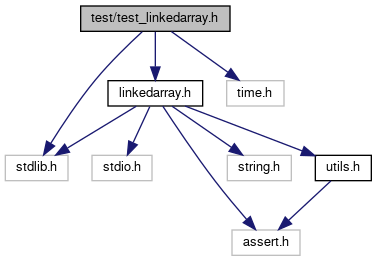
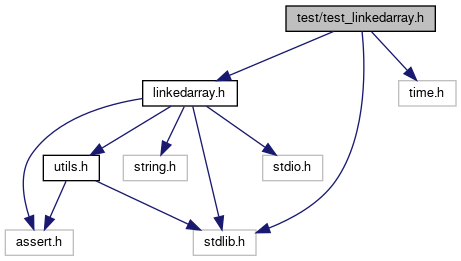
deploy: 62ef7dddea1c3ed3d6eda440160fe4bedcd5a92e

diff --git a/utils_8h_source.html b/utils_8h_source.html
@@ -74,50 +74,51 @@ $(function() {
 <div class="line"><a name="l00012"></a><span class="lineno">   12</span>&#160;<span class="preprocessor">#define UTILS_H</span></div>
 <div class="line"><a name="l00013"></a><span class="lineno">   13</span>&#160; </div>
 <div class="line"><a name="l00014"></a><span class="lineno">   14</span>&#160;<span class="preprocessor">#include &lt;assert.h&gt;</span></div>
-<div class="line"><a name="l00015"></a><span class="lineno">   15</span>&#160; </div>
-<div class="line"><a name="l00016"></a><span class="lineno"><a class="line" href="structMinMax.html">   16</a></span>&#160;<span class="keyword">typedef</span> <span class="keyword">struct </span>{</div>
-<div class="line"><a name="l00017"></a><span class="lineno">   17</span>&#160;    <span class="keywordtype">int</span> min;</div>
-<div class="line"><a name="l00018"></a><span class="lineno">   18</span>&#160;    <span class="keywordtype">int</span> max;</div>
-<div class="line"><a name="l00019"></a><span class="lineno">   19</span>&#160;} <a class="code" href="structMinMax.html">MinMax</a>;</div>
-<div class="line"><a name="l00020"></a><span class="lineno">   20</span>&#160; </div>
-<div class="line"><a name="l00022"></a><span class="lineno">   22</span>&#160;<span class="keywordtype">void</span> <a class="code" href="utils_8h.html#a7f9501e3da8bed7be1eed5abe1b2c035">quicksort</a>(<span class="keywordtype">int</span> arr[], <span class="keywordtype">int</span> left, <span class="keywordtype">int</span> right);</div>
-<div class="line"><a name="l00023"></a><span class="lineno">   23</span>&#160; </div>
-<div class="line"><a name="l00025"></a><span class="lineno">   25</span>&#160;<span class="keywordtype">int</span> <a class="code" href="utils_8h.html#a63802919fc588a396c2037346d2ea072">partition</a>(<span class="keywordtype">int</span> number[], <span class="keywordtype">int</span> left, <span class="keywordtype">int</span> right);</div>
-<div class="line"><a name="l00026"></a><span class="lineno">   26</span>&#160; </div>
-<div class="line"><a name="l00028"></a><span class="lineno">   28</span>&#160;<span class="keywordtype">void</span> <a class="code" href="utils_8h.html#acd3415eef442ced2b5e064f95f04b624">swap</a>(<span class="keywordtype">int</span>* x, <span class="keywordtype">int</span>* y);</div>
-<div class="line"><a name="l00029"></a><span class="lineno">   29</span>&#160; </div>
-<div class="line"><a name="l00039"></a><span class="lineno">   39</span>&#160;<span class="keywordtype">int</span> <a class="code" href="utils_8h.html#aea0b7eaa2eccbab7c7a02af30f789fff">insert_arr</a>(<span class="keywordtype">int</span> arr[], <span class="keywordtype">int</span> i_, <span class="keywordtype">int</span> x, <span class="keywordtype">int</span> length);</div>
-<div class="line"><a name="l00040"></a><span class="lineno">   40</span>&#160; </div>
-<div class="line"><a name="l00042"></a><span class="lineno">   42</span>&#160;<span class="keywordtype">void</span> <a class="code" href="utils_8h.html#aaa4f0ee49fe00816904a50365b89a7b5">append_arr</a>(<span class="keywordtype">int</span> arr[], <span class="keywordtype">int</span> x, <span class="keywordtype">int</span> length);</div>
-<div class="line"><a name="l00044"></a><span class="lineno">   44</span>&#160;<span class="keywordtype">void</span> <a class="code" href="utils_8h.html#a6062d344abd994c1d5f9735511f78112">remove_arr</a>(<span class="keywordtype">int</span> arr[], <span class="keywordtype">int</span> i, <span class="keywordtype">int</span> length);</div>
-<div class="line"><a name="l00046"></a><span class="lineno">   46</span>&#160;<span class="keywordtype">int</span> <a class="code" href="utils_8h.html#a40ee04a45135984b0f1981d51b1688b6">reverse_arr</a>(<span class="keywordtype">int</span> arr[], <span class="keywordtype">int</span> str, <span class="keywordtype">int</span> end);</div>
-<div class="line"><a name="l00050"></a><span class="lineno">   50</span>&#160;<span class="keywordtype">int</span> <a class="code" href="utils_8h.html#aa26582e44b939cc0f7f9b1e3bec5de74">compare_array</a>(<span class="keywordtype">int</span> A[], <span class="keywordtype">int</span> B[], <span class="keywordtype">int</span> length);</div>
-<div class="line"><a name="l00051"></a><span class="lineno">   51</span>&#160; </div>
+<div class="line"><a name="l00015"></a><span class="lineno">   15</span>&#160;<span class="preprocessor">#include &lt;stdlib.h&gt;</span></div>
+<div class="line"><a name="l00016"></a><span class="lineno">   16</span>&#160; </div>
+<div class="line"><a name="l00017"></a><span class="lineno"><a class="line" href="structMinMax.html">   17</a></span>&#160;<span class="keyword">typedef</span> <span class="keyword">struct </span>{</div>
+<div class="line"><a name="l00018"></a><span class="lineno">   18</span>&#160;    <span class="keywordtype">int</span> min;</div>
+<div class="line"><a name="l00019"></a><span class="lineno">   19</span>&#160;    <span class="keywordtype">int</span> max;</div>
+<div class="line"><a name="l00020"></a><span class="lineno">   20</span>&#160;} <a class="code" href="structMinMax.html">MinMax</a>;</div>
+<div class="line"><a name="l00021"></a><span class="lineno">   21</span>&#160; </div>
+<div class="line"><a name="l00023"></a><span class="lineno">   23</span>&#160;<span class="keywordtype">void</span> <a class="code" href="utils_8h.html#a7f9501e3da8bed7be1eed5abe1b2c035">quicksort</a>(<span class="keywordtype">int</span> arr[], <span class="keywordtype">int</span> left, <span class="keywordtype">int</span> right);</div>
+<div class="line"><a name="l00024"></a><span class="lineno">   24</span>&#160; </div>
+<div class="line"><a name="l00026"></a><span class="lineno">   26</span>&#160;<span class="keywordtype">int</span> <a class="code" href="utils_8h.html#a63802919fc588a396c2037346d2ea072">partition</a>(<span class="keywordtype">int</span> number[], <span class="keywordtype">int</span> left, <span class="keywordtype">int</span> right);</div>
+<div class="line"><a name="l00027"></a><span class="lineno">   27</span>&#160; </div>
+<div class="line"><a name="l00029"></a><span class="lineno">   29</span>&#160;<span class="keywordtype">void</span> <a class="code" href="utils_8h.html#acd3415eef442ced2b5e064f95f04b624">swap</a>(<span class="keywordtype">int</span>* x, <span class="keywordtype">int</span>* y);</div>
+<div class="line"><a name="l00030"></a><span class="lineno">   30</span>&#160; </div>
+<div class="line"><a name="l00040"></a><span class="lineno">   40</span>&#160;<span class="keywordtype">int</span> <a class="code" href="utils_8h.html#aea0b7eaa2eccbab7c7a02af30f789fff">insert_arr</a>(<span class="keywordtype">int</span> arr[], <span class="keywordtype">int</span> i_, <span class="keywordtype">int</span> x, <span class="keywordtype">int</span> length);</div>
+<div class="line"><a name="l00041"></a><span class="lineno">   41</span>&#160; </div>
+<div class="line"><a name="l00043"></a><span class="lineno">   43</span>&#160;<span class="keywordtype">void</span> <a class="code" href="utils_8h.html#aaa4f0ee49fe00816904a50365b89a7b5">append_arr</a>(<span class="keywordtype">int</span> arr[], <span class="keywordtype">int</span> x, <span class="keywordtype">int</span> length);</div>
+<div class="line"><a name="l00045"></a><span class="lineno">   45</span>&#160;<span class="keywordtype">void</span> <a class="code" href="utils_8h.html#a6062d344abd994c1d5f9735511f78112">remove_arr</a>(<span class="keywordtype">int</span> arr[], <span class="keywordtype">int</span> i, <span class="keywordtype">int</span> length);</div>
+<div class="line"><a name="l00047"></a><span class="lineno">   47</span>&#160;<span class="keywordtype">int</span> <a class="code" href="utils_8h.html#a40ee04a45135984b0f1981d51b1688b6">reverse_arr</a>(<span class="keywordtype">int</span> arr[], <span class="keywordtype">int</span> str, <span class="keywordtype">int</span> end);</div>
+<div class="line"><a name="l00051"></a><span class="lineno">   51</span>&#160;<span class="keywordtype">int</span> <a class="code" href="utils_8h.html#aa26582e44b939cc0f7f9b1e3bec5de74">compare_array</a>(<span class="keywordtype">int</span> A[], <span class="keywordtype">int</span> B[], <span class="keywordtype">int</span> length);</div>
 <div class="line"><a name="l00052"></a><span class="lineno">   52</span>&#160; </div>
-<div class="line"><a name="l00062"></a><span class="lineno">   62</span>&#160;<span class="keywordtype">int</span> <a class="code" href="utils_8h.html#af2eeb464f878d97ae244a20a2ecdd415">BinarySearch_MinBigger</a>(<span class="keywordtype">int</span>* arr, <span class="keywordtype">int</span> length, <span class="keywordtype">int</span> key);</div>
-<div class="line"><a name="l00063"></a><span class="lineno">   63</span>&#160; </div>
-<div class="line"><a name="l00069"></a><span class="lineno">   69</span>&#160;<span class="keywordtype">int</span> <a class="code" href="utils_8h.html#a53905e2decba41a7198d38133359544c">BinarySearch_MaxSmaller</a>(<span class="keywordtype">int</span>* arrSorted, <span class="keywordtype">int</span> length, <span class="keywordtype">int</span> key);</div>
-<div class="line"><a name="l00070"></a><span class="lineno">   70</span>&#160; </div>
-<div class="line"><a name="l00079"></a><span class="lineno">   79</span>&#160;<span class="keywordtype">int</span> <a class="code" href="utils_8h.html#ab584f14895022a0a7734b6ad61456bcf">NumItemSmaller_Sorted</a>(<span class="keywordtype">int</span>* arrSorted, <span class="keywordtype">int</span> length, <span class="keywordtype">int</span> key);</div>
-<div class="line"><a name="l00080"></a><span class="lineno">   80</span>&#160; </div>
-<div class="line"><a name="l00091"></a><span class="lineno">   91</span>&#160;<span class="keywordtype">int</span> <a class="code" href="utils_8h.html#acfa4abe34baf1ebf7a10cb4614ea3b19">NumItemSmaller_Screen</a>(<span class="keywordtype">int</span>* arr, <span class="keywordtype">int</span> str, <span class="keywordtype">int</span> end, <span class="keywordtype">int</span> key);</div>
-<div class="line"><a name="l00092"></a><span class="lineno">   92</span>&#160; </div>
-<div class="line"><a name="l00094"></a><span class="lineno">   94</span>&#160;<a class="code" href="structMinMax.html">MinMax</a> <a class="code" href="utils_8h.html#a1c86995f8159017fe081a0c3f6948227">findMinMax</a>(<span class="keywordtype">int</span>* arr, <span class="keywordtype">int</span> str, <span class="keywordtype">int</span> end);</div>
-<div class="line"><a name="l00095"></a><span class="lineno">   95</span>&#160;<span class="keywordtype">int</span> <a class="code" href="utils_8h.html#af3ded9db3e5041e65961739dad69bca7">update_MinMax</a>(<a class="code" href="structMinMax.html">MinMax</a>* dst, <span class="keywordtype">int</span> min, <span class="keywordtype">int</span> max);</div>
-<div class="line"><a name="l00096"></a><span class="lineno">   96</span>&#160; </div>
-<div class="line"><a name="l00097"></a><span class="lineno">   97</span>&#160;<span class="comment">/*TESTING*/</span></div>
-<div class="line"><a name="l00098"></a><span class="lineno"><a class="line" href="structarray.html">   98</a></span>&#160;<span class="keyword">typedef</span> <span class="keyword">struct </span>{</div>
-<div class="line"><a name="l00099"></a><span class="lineno">   99</span>&#160;    <span class="keywordtype">int</span> arr[50000];</div>
-<div class="line"><a name="l00100"></a><span class="lineno">  100</span>&#160;    <span class="keywordtype">int</span> len;</div>
-<div class="line"><a name="l00101"></a><span class="lineno">  101</span>&#160;} <a class="code" href="structarray.html">array</a>;</div>
-<div class="line"><a name="l00102"></a><span class="lineno">  102</span>&#160;<a class="code" href="structarray.html">array</a> init_array();</div>
-<div class="line"><a name="l00103"></a><span class="lineno">  103</span>&#160;<span class="keywordtype">int</span> insert_array(<a class="code" href="structarray.html">array</a>*, <span class="keywordtype">int</span> i, <span class="keywordtype">int</span> x);</div>
-<div class="line"><a name="l00104"></a><span class="lineno">  104</span>&#160;<span class="keywordtype">int</span> delete_array(<a class="code" href="structarray.html">array</a>*, <span class="keywordtype">int</span> i);</div>
-<div class="line"><a name="l00105"></a><span class="lineno">  105</span>&#160;<span class="keywordtype">int</span> reverse_array(<a class="code" href="structarray.html">array</a>*, <span class="keywordtype">int</span> l, <span class="keywordtype">int</span> r);</div>
-<div class="line"><a name="l00106"></a><span class="lineno">  106</span>&#160; </div>
-<div class="line"><a name="l00107"></a><span class="lineno">  107</span>&#160;<span class="preprocessor">#endif</span></div>
-<div class="ttc" id="astructMinMax_html"><div class="ttname"><a href="structMinMax.html">MinMax</a></div><div class="ttdef"><b>Definition:</b> utils.h:16</div></div>
-<div class="ttc" id="astructarray_html"><div class="ttname"><a href="structarray.html">array</a></div><div class="ttdef"><b>Definition:</b> utils.h:98</div></div>
+<div class="line"><a name="l00053"></a><span class="lineno">   53</span>&#160; </div>
+<div class="line"><a name="l00063"></a><span class="lineno">   63</span>&#160;<span class="keywordtype">int</span> <a class="code" href="utils_8h.html#af2eeb464f878d97ae244a20a2ecdd415">BinarySearch_MinBigger</a>(<span class="keywordtype">int</span>* arr, <span class="keywordtype">int</span> length, <span class="keywordtype">int</span> key);</div>
+<div class="line"><a name="l00064"></a><span class="lineno">   64</span>&#160; </div>
+<div class="line"><a name="l00070"></a><span class="lineno">   70</span>&#160;<span class="keywordtype">int</span> <a class="code" href="utils_8h.html#a53905e2decba41a7198d38133359544c">BinarySearch_MaxSmaller</a>(<span class="keywordtype">int</span>* arrSorted, <span class="keywordtype">int</span> length, <span class="keywordtype">int</span> key);</div>
+<div class="line"><a name="l00071"></a><span class="lineno">   71</span>&#160; </div>
+<div class="line"><a name="l00080"></a><span class="lineno">   80</span>&#160;<span class="keywordtype">int</span> <a class="code" href="utils_8h.html#ab584f14895022a0a7734b6ad61456bcf">NumItemSmaller_Sorted</a>(<span class="keywordtype">int</span>* arrSorted, <span class="keywordtype">int</span> length, <span class="keywordtype">int</span> key);</div>
+<div class="line"><a name="l00081"></a><span class="lineno">   81</span>&#160; </div>
+<div class="line"><a name="l00092"></a><span class="lineno">   92</span>&#160;<span class="keywordtype">int</span> <a class="code" href="utils_8h.html#acfa4abe34baf1ebf7a10cb4614ea3b19">NumItemSmaller_Screen</a>(<span class="keywordtype">int</span>* arr, <span class="keywordtype">int</span> str, <span class="keywordtype">int</span> end, <span class="keywordtype">int</span> key);</div>
+<div class="line"><a name="l00093"></a><span class="lineno">   93</span>&#160; </div>
+<div class="line"><a name="l00095"></a><span class="lineno">   95</span>&#160;<a class="code" href="structMinMax.html">MinMax</a> <a class="code" href="utils_8h.html#a1c86995f8159017fe081a0c3f6948227">findMinMax</a>(<span class="keywordtype">int</span>* arr, <span class="keywordtype">int</span> str, <span class="keywordtype">int</span> end);</div>
+<div class="line"><a name="l00096"></a><span class="lineno">   96</span>&#160;<span class="keywordtype">int</span> <a class="code" href="utils_8h.html#af3ded9db3e5041e65961739dad69bca7">update_MinMax</a>(<a class="code" href="structMinMax.html">MinMax</a>* dst, <span class="keywordtype">int</span> min, <span class="keywordtype">int</span> max);</div>
+<div class="line"><a name="l00097"></a><span class="lineno">   97</span>&#160; </div>
+<div class="line"><a name="l00098"></a><span class="lineno">   98</span>&#160;<span class="comment">/*TESTING*/</span></div>
+<div class="line"><a name="l00099"></a><span class="lineno"><a class="line" href="structarray.html">   99</a></span>&#160;<span class="keyword">typedef</span> <span class="keyword">struct </span>{</div>
+<div class="line"><a name="l00100"></a><span class="lineno">  100</span>&#160;    <span class="keywordtype">int</span>* arr;</div>
+<div class="line"><a name="l00101"></a><span class="lineno">  101</span>&#160;    <span class="keywordtype">int</span> len;</div>
+<div class="line"><a name="l00102"></a><span class="lineno">  102</span>&#160;} <a class="code" href="structarray.html">array</a>;</div>
+<div class="line"><a name="l00103"></a><span class="lineno">  103</span>&#160;<a class="code" href="structarray.html">array</a> init_array();</div>
+<div class="line"><a name="l00104"></a><span class="lineno">  104</span>&#160;<span class="keywordtype">int</span> insert_array(<a class="code" href="structarray.html">array</a>*, <span class="keywordtype">int</span> i, <span class="keywordtype">int</span> x);</div>
+<div class="line"><a name="l00105"></a><span class="lineno">  105</span>&#160;<span class="keywordtype">int</span> delete_array(<a class="code" href="structarray.html">array</a>*, <span class="keywordtype">int</span> i);</div>
+<div class="line"><a name="l00106"></a><span class="lineno">  106</span>&#160;<span class="keywordtype">int</span> reverse_array(<a class="code" href="structarray.html">array</a>*, <span class="keywordtype">int</span> l, <span class="keywordtype">int</span> r);</div>
+<div class="line"><a name="l00107"></a><span class="lineno">  107</span>&#160; </div>
+<div class="line"><a name="l00108"></a><span class="lineno">  108</span>&#160;<span class="preprocessor">#endif</span></div>
+<div class="ttc" id="astructMinMax_html"><div class="ttname"><a href="structMinMax.html">MinMax</a></div><div class="ttdef"><b>Definition:</b> utils.h:17</div></div>
+<div class="ttc" id="astructarray_html"><div class="ttname"><a href="structarray.html">array</a></div><div class="ttdef"><b>Definition:</b> utils.h:99</div></div>
 <div class="ttc" id="autils_8h_html_a1c86995f8159017fe081a0c3f6948227"><div class="ttname"><a href="utils_8h.html#a1c86995f8159017fe081a0c3f6948227">findMinMax</a></div><div class="ttdeci">MinMax findMinMax(int *arr, int str, int end)</div><div class="ttdef"><b>Definition:</b> utils.c:146</div></div>
 <div class="ttc" id="autils_8h_html_a40ee04a45135984b0f1981d51b1688b6"><div class="ttname"><a href="utils_8h.html#a40ee04a45135984b0f1981d51b1688b6">reverse_arr</a></div><div class="ttdeci">int reverse_arr(int arr[], int str, int end)</div><div class="ttdef"><b>Definition:</b> utils.c:57</div></div>
 <div class="ttc" id="autils_8h_html_a53905e2decba41a7198d38133359544c"><div class="ttname"><a href="utils_8h.html#a53905e2decba41a7198d38133359544c">BinarySearch_MaxSmaller</a></div><div class="ttdeci">int BinarySearch_MaxSmaller(int *arrSorted, int length, int key)</div><div class="ttdoc">Find the maximum location i which fullfills arr[i] &lt; key.</div><div class="ttdef"><b>Definition:</b> utils.c:108</div></div>

diff --git a/linkedarray_8h_source.html b/linkedarray_8h_source.html
@@ -197,9 +197,9 @@ $(function() {
 <div class="ttc" id="alinkedarray_8h_html_ae09ebb3d01abd07009f724db79fc1a26"><div class="ttname"><a href="linkedarray_8h.html#ae09ebb3d01abd07009f724db79fc1a26">find_start_end_LA</a></div><div class="ttdeci">StrEndLoc find_start_end_LA(LnkArr *headlist, int str, int end)</div><div class="ttdef"><b>Definition:</b> linkedarray.c:445</div></div>
 <div class="ttc" id="alinkedarray_8h_html_ae507e388b4fc6fcd090b0bd0836e3c1f"><div class="ttname"><a href="linkedarray_8h.html#ae507e388b4fc6fcd090b0bd0836e3c1f">reverseInNodes</a></div><div class="ttdeci">int reverseInNodes(Loc nodeStr, Loc nodeEnd)</div><div class="ttdef"><b>Definition:</b> linkedarray.c:369</div></div>
 <div class="ttc" id="astructLoc_html"><div class="ttname"><a href="structLoc.html">Loc</a></div><div class="ttdoc">Position in linked array.</div><div class="ttdef"><b>Definition:</b> linkedarray.h:50</div></div>
-<div class="ttc" id="astructMinMax_html"><div class="ttname"><a href="structMinMax.html">MinMax</a></div><div class="ttdef"><b>Definition:</b> utils.h:16</div></div>
+<div class="ttc" id="astructMinMax_html"><div class="ttname"><a href="structMinMax.html">MinMax</a></div><div class="ttdef"><b>Definition:</b> utils.h:17</div></div>
 <div class="ttc" id="astructStrEndLoc_html"><div class="ttname"><a href="structStrEndLoc.html">StrEndLoc</a></div><div class="ttdef"><b>Definition:</b> linkedarray.h:59</div></div>
-<div class="ttc" id="astructarray_html"><div class="ttname"><a href="structarray.html">array</a></div><div class="ttdef"><b>Definition:</b> utils.h:98</div></div>
+<div class="ttc" id="astructarray_html"><div class="ttname"><a href="structarray.html">array</a></div><div class="ttdef"><b>Definition:</b> utils.h:99</div></div>
 <div class="ttc" id="astructnode_html"><div class="ttname"><a href="structnode.html">node</a></div><div class="ttdef"><b>Definition:</b> linkedarray.h:32</div></div>
 <div class="ttc" id="autils_8h_html"><div class="ttname"><a href="utils_8h.html">utils.h</a></div><div class="ttdoc">General Utilities for C language.</div></div>
 </div><!-- fragment --></div><!-- contents -->

diff --git a/main_8c.html b/main_8c.html
@@ -82,13 +82,13 @@ Include dependency graph for main.c:</div>
 <div class="dyncontent">
 <div class="center"><img src="main_8c__incl.png" border="0" usemap="#asrc_2main_8c" alt=""/></div>
 <map name="asrc_2main_8c" id="asrc_2main_8c">
-<area shape="rect" title="DSA2021 HW1 P6: K least member. This package is majorly done by myself. The algorithm part is inspire..." alt="" coords="78,5,161,32"/>
-<area shape="rect" title=" " alt="" coords="5,155,65,181"/>
-<area shape="rect" title=" " alt="" coords="89,155,152,181"/>
-<area shape="rect" href="linkedarray_8h.html" title="Unrolled linked list for finding K&#45;least element." alt="" coords="157,80,252,107"/>
-<area shape="rect" title=" " alt="" coords="203,229,271,256"/>
-<area shape="rect" title=" " alt="" coords="307,155,371,181"/>
-<area shape="rect" href="utils_8h.html" title="General Utilities for C language." alt="" coords="177,155,233,181"/>
+<area shape="rect" title="DSA2021 HW1 P6: K least member. This package is majorly done by myself. The algorithm part is inspire..." alt="" coords="19,5,102,32"/>
+<area shape="rect" title=" " alt="" coords="31,155,91,181"/>
+<area shape="rect" title=" " alt="" coords="185,229,248,256"/>
+<area shape="rect" href="linkedarray_8h.html" title="Unrolled linked list for finding K&#45;least element." alt="" coords="135,80,229,107"/>
+<area shape="rect" title=" " alt="" coords="292,229,360,256"/>
+<area shape="rect" title=" " alt="" coords="115,155,179,181"/>
+<area shape="rect" href="utils_8h.html" title="General Utilities for C language." alt="" coords="254,155,310,181"/>
 </map>
 </div>
 </div><table class="memberdecls">

diff --git a/test__linkedarray_8h.html b/test__linkedarray_8h.html
@@ -80,14 +80,14 @@ Include dependency graph for test_linkedarray.h:</div>
 <div class="dyncontent">
 <div class="center"><img src="test__linkedarray_8h__incl.png" border="0" usemap="#atest_2test__linkedarray_8h" alt=""/></div>
 <map name="atest_2test__linkedarray_8h" id="atest_2test__linkedarray_8h">
-<area shape="rect" title=" " alt="" coords="81,5,230,32"/>
-<area shape="rect" href="linkedarray_8h.html" title="Unrolled linked list for finding K&#45;least element." alt="" coords="108,80,203,107"/>
-<area shape="rect" title=" " alt="" coords="5,155,68,181"/>
-<area shape="rect" title=" " alt="" coords="227,80,284,107"/>
-<area shape="rect" title=" " alt="" coords="92,155,152,181"/>
-<area shape="rect" title=" " alt="" coords="232,229,300,256"/>
-<area shape="rect" title=" " alt="" coords="227,155,291,181"/>
-<area shape="rect" href="utils_8h.html" title="General Utilities for C language." alt="" coords="315,155,371,181"/>
+<area shape="rect" title=" " alt="" coords="286,5,435,32"/>
+<area shape="rect" href="linkedarray_8h.html" title="Unrolled linked list for finding K&#45;least element." alt="" coords="143,80,237,107"/>
+<area shape="rect" title=" " alt="" coords="193,229,256,256"/>
+<area shape="rect" title=" " alt="" coords="399,80,456,107"/>
+<area shape="rect" title=" " alt="" coords="263,155,323,181"/>
+<area shape="rect" title=" " alt="" coords="5,229,73,256"/>
+<area shape="rect" title=" " alt="" coords="123,155,187,181"/>
+<area shape="rect" href="utils_8h.html" title="General Utilities for C language." alt="" coords="43,155,99,181"/>
 </map>
 </div>
 </div>

diff --git a/linkedarray_8h.html b/linkedarray_8h.html
@@ -87,12 +87,12 @@ Include dependency graph for linkedarray.h:</div>
 <div class="dyncontent">
 <div class="center"><img src="linkedarray_8h__incl.png" border="0" usemap="#asrc_2linkedarray_8h" alt=""/></div>
 <map name="asrc_2linkedarray_8h" id="asrc_2linkedarray_8h">
-<area shape="rect" title="Unrolled linked list for finding K&#45;least element." alt="" coords="132,5,248,32"/>
+<area shape="rect" title="Unrolled linked list for finding K&#45;least element." alt="" coords="111,5,227,32"/>
 <area shape="rect" title=" " alt="" coords="5,80,65,107"/>
-<area shape="rect" title=" " alt="" coords="89,80,152,107"/>
-<area shape="rect" title=" " alt="" coords="232,155,300,181"/>
-<area shape="rect" title=" " alt="" coords="227,80,291,107"/>
-<area shape="rect" href="utils_8h.html" title="General Utilities for C language." alt="" coords="315,80,371,107"/>
+<area shape="rect" title=" " alt="" coords="104,155,167,181"/>
+<area shape="rect" title=" " alt="" coords="239,155,307,181"/>
+<area shape="rect" title=" " alt="" coords="221,80,285,107"/>
+<area shape="rect" href="utils_8h.html" title="General Utilities for C language." alt="" coords="141,80,197,107"/>
 </map>
 </div>
 </div><div class="textblock"><div class="dynheader">

diff --git a/structarray.html b/structarray.html
@@ -71,9 +71,9 @@ $(function() {
 <table class="memberdecls">
 <tr class="heading"><td colspan="2"><h2 class="groupheader"><a name="pub-attribs"></a>
 Public Attributes</h2></td></tr>
-<tr class="memitem:aa7cfc470333d072b7e8bcd9a5b735754"><td class="memItemLeft" align="right" valign="top"><a id="aa7cfc470333d072b7e8bcd9a5b735754"></a>
-int&#160;</td><td class="memItemRight" valign="bottom"><b>arr</b> [50000]</td></tr>
-<tr class="separator:aa7cfc470333d072b7e8bcd9a5b735754"><td class="memSeparator" colspan="2">&#160;</td></tr>
+<tr class="memitem:ad2178635ab7a1b0cedf49456ae43afef"><td class="memItemLeft" align="right" valign="top"><a id="ad2178635ab7a1b0cedf49456ae43afef"></a>
+int *&#160;</td><td class="memItemRight" valign="bottom"><b>arr</b></td></tr>
+<tr class="separator:ad2178635ab7a1b0cedf49456ae43afef"><td class="memSeparator" colspan="2">&#160;</td></tr>
 <tr class="memitem:a4921fc6498f2decbd594d236a0faffac"><td class="memItemLeft" align="right" valign="top"><a id="a4921fc6498f2decbd594d236a0faffac"></a>
 int&#160;</td><td class="memItemRight" valign="bottom"><b>len</b></td></tr>
 <tr class="separator:a4921fc6498f2decbd594d236a0faffac"><td class="memSeparator" colspan="2">&#160;</td></tr>

diff --git a/utils_8h.html b/utils_8h.html
@@ -76,13 +76,15 @@ $(function() {
 <p>General Utilities for C language.  
 <a href="#details">More...</a></p>
 <div class="textblock"><code>#include &lt;assert.h&gt;</code><br />
+<code>#include &lt;stdlib.h&gt;</code><br />
 </div><div class="textblock"><div class="dynheader">
 Include dependency graph for utils.h:</div>
 <div class="dyncontent">
 <div class="center"><img src="utils_8h__incl.png" border="0" usemap="#asrc_2utils_8h" alt=""/></div>
 <map name="asrc_2utils_8h" id="asrc_2utils_8h">
-<area shape="rect" title="General Utilities for C language." alt="" coords="5,5,84,32"/>
-<area shape="rect" title=" " alt="" coords="11,80,79,107"/>
+<area shape="rect" title="General Utilities for C language." alt="" coords="44,5,123,32"/>
+<area shape="rect" title=" " alt="" coords="5,80,73,107"/>
+<area shape="rect" title=" " alt="" coords="97,80,160,107"/>
 </map>
 </div>
 </div><div class="textblock"><div class="dynheader">

diff --git a/test__utils_8h.html b/test__utils_8h.html
@@ -84,7 +84,8 @@ Include dependency graph for test_utils.h:</div>
 <area shape="rect" title="Test utility functions." alt="" coords="31,5,142,32"/>
 <area shape="rect" title=" " alt="" coords="5,80,80,107"/>
 <area shape="rect" href="utils_8h.html" title="General Utilities for C language." alt="" coords="104,80,160,107"/>
-<area shape="rect" title=" " alt="" coords="98,155,166,181"/>
+<area shape="rect" title=" " alt="" coords="53,155,121,181"/>
+<area shape="rect" title=" " alt="" coords="145,155,207,181"/>
 </map>
 </div>
 </div>
